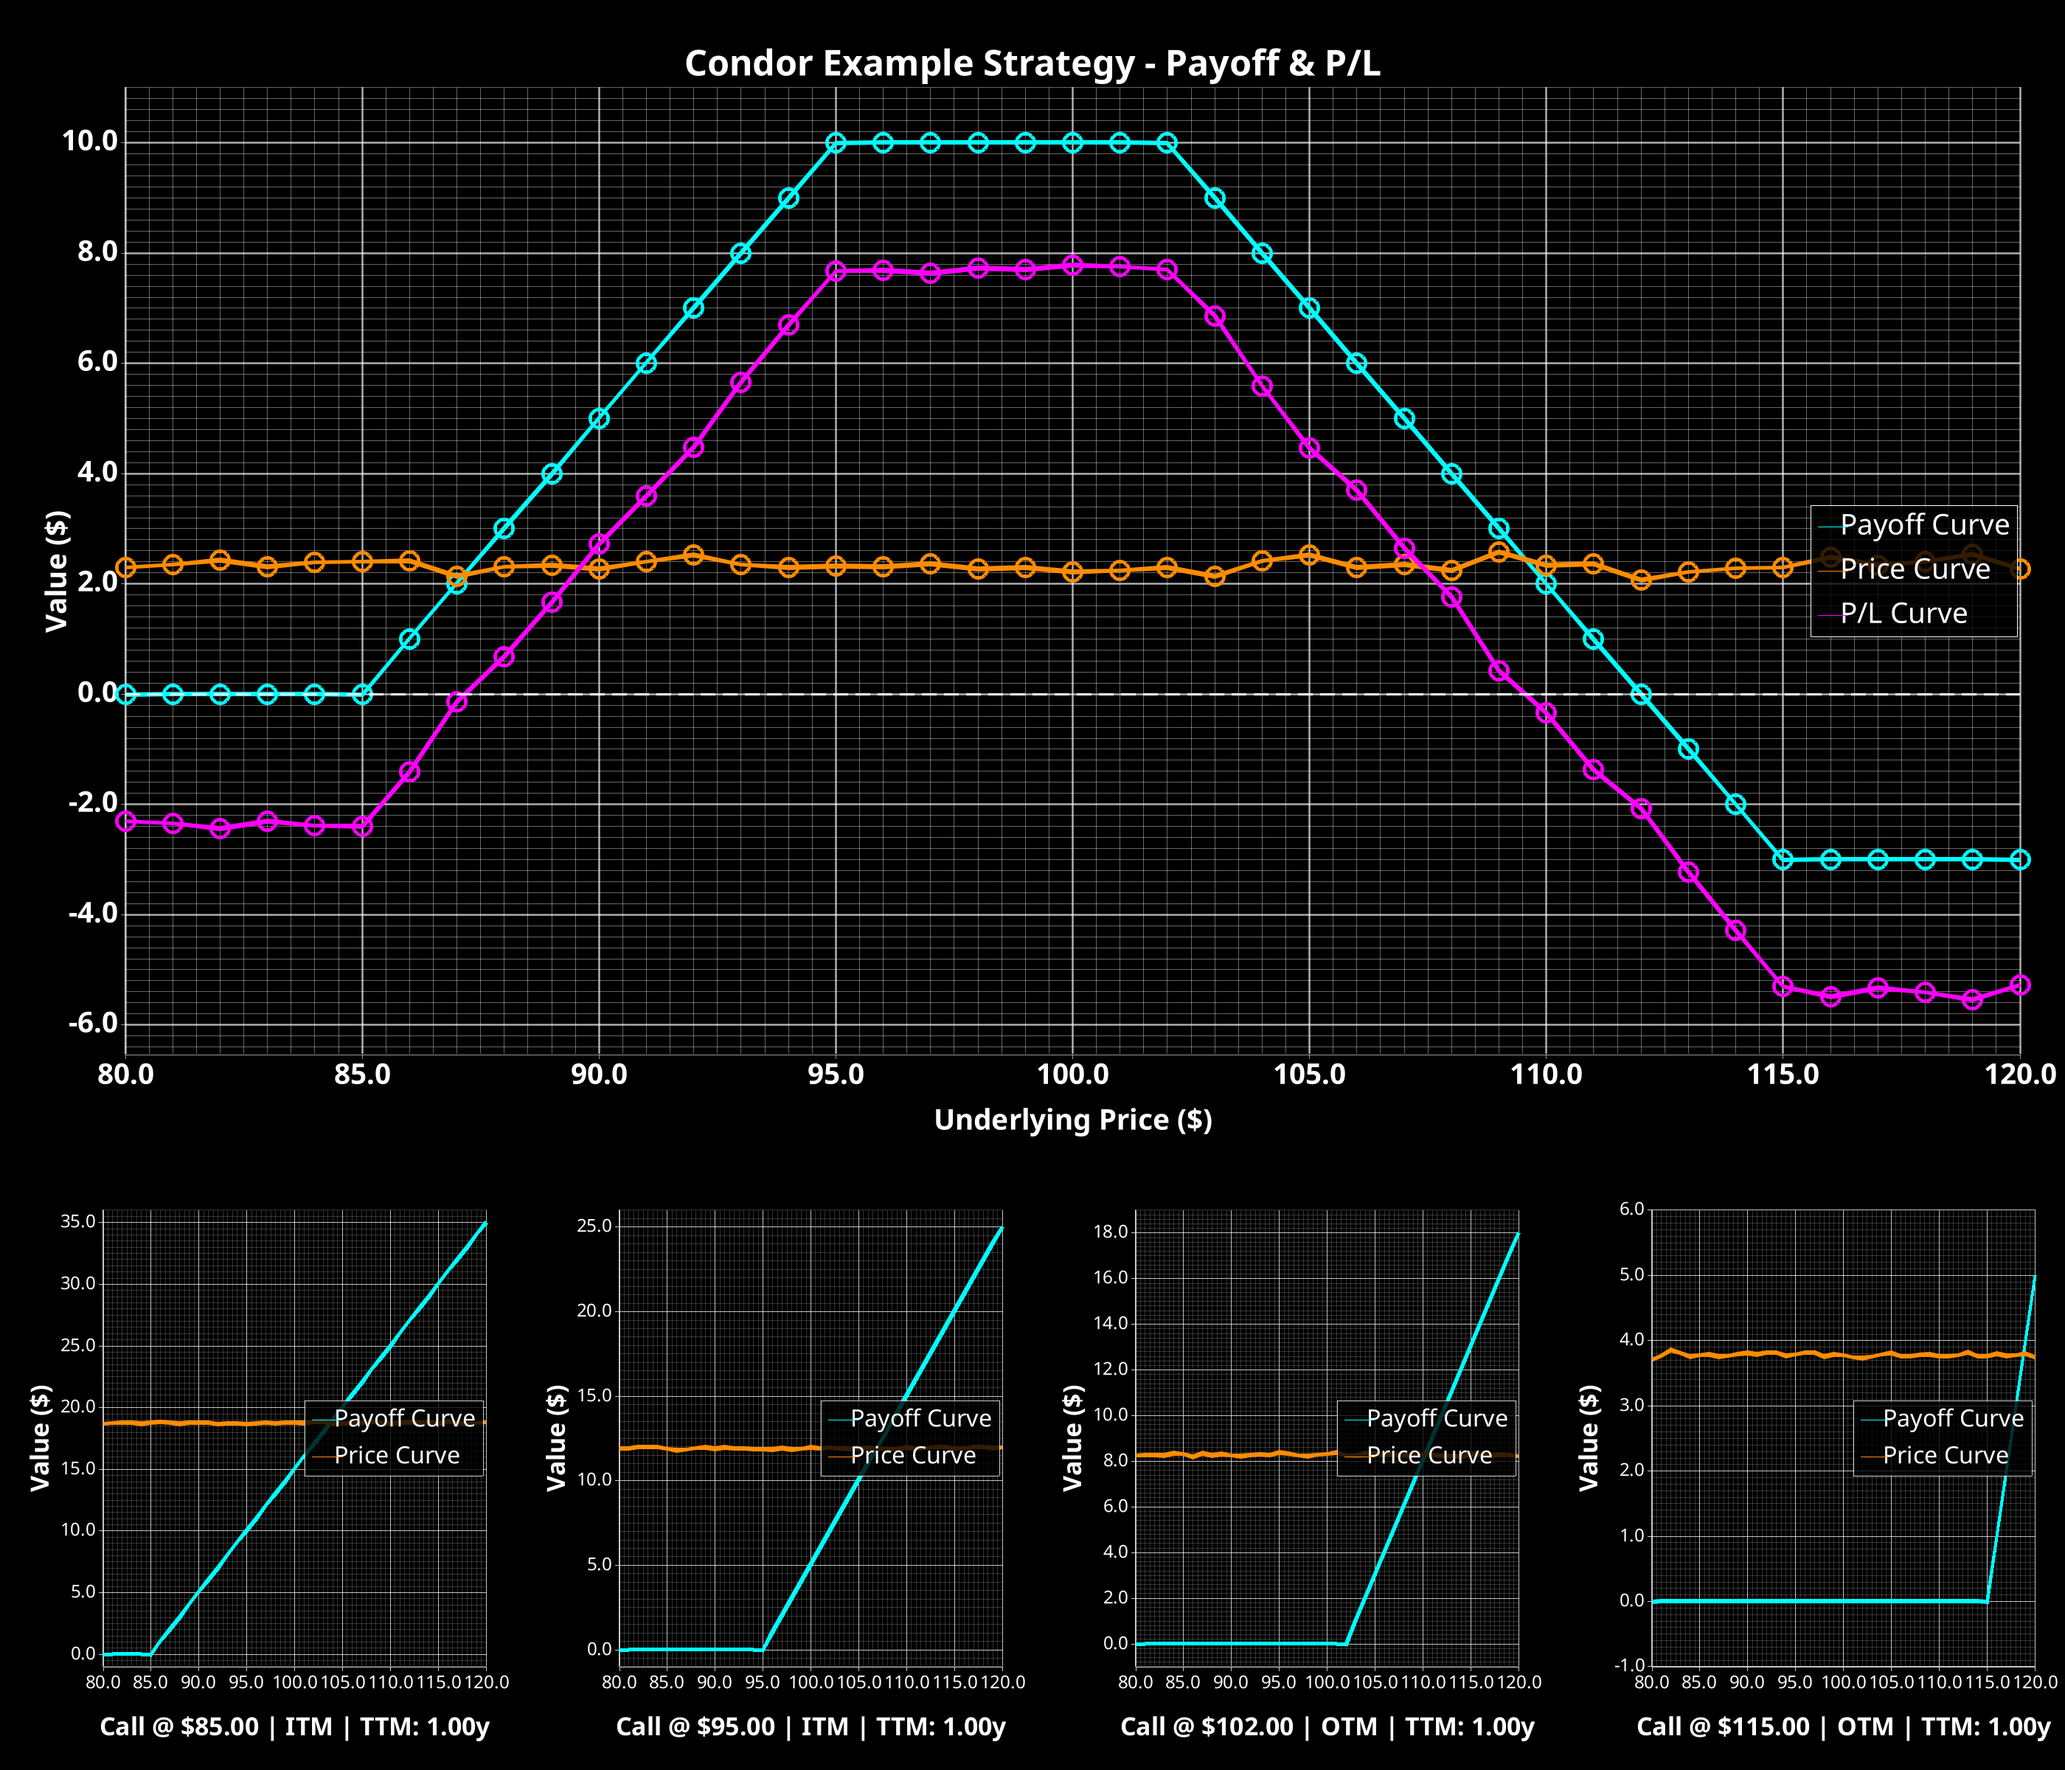
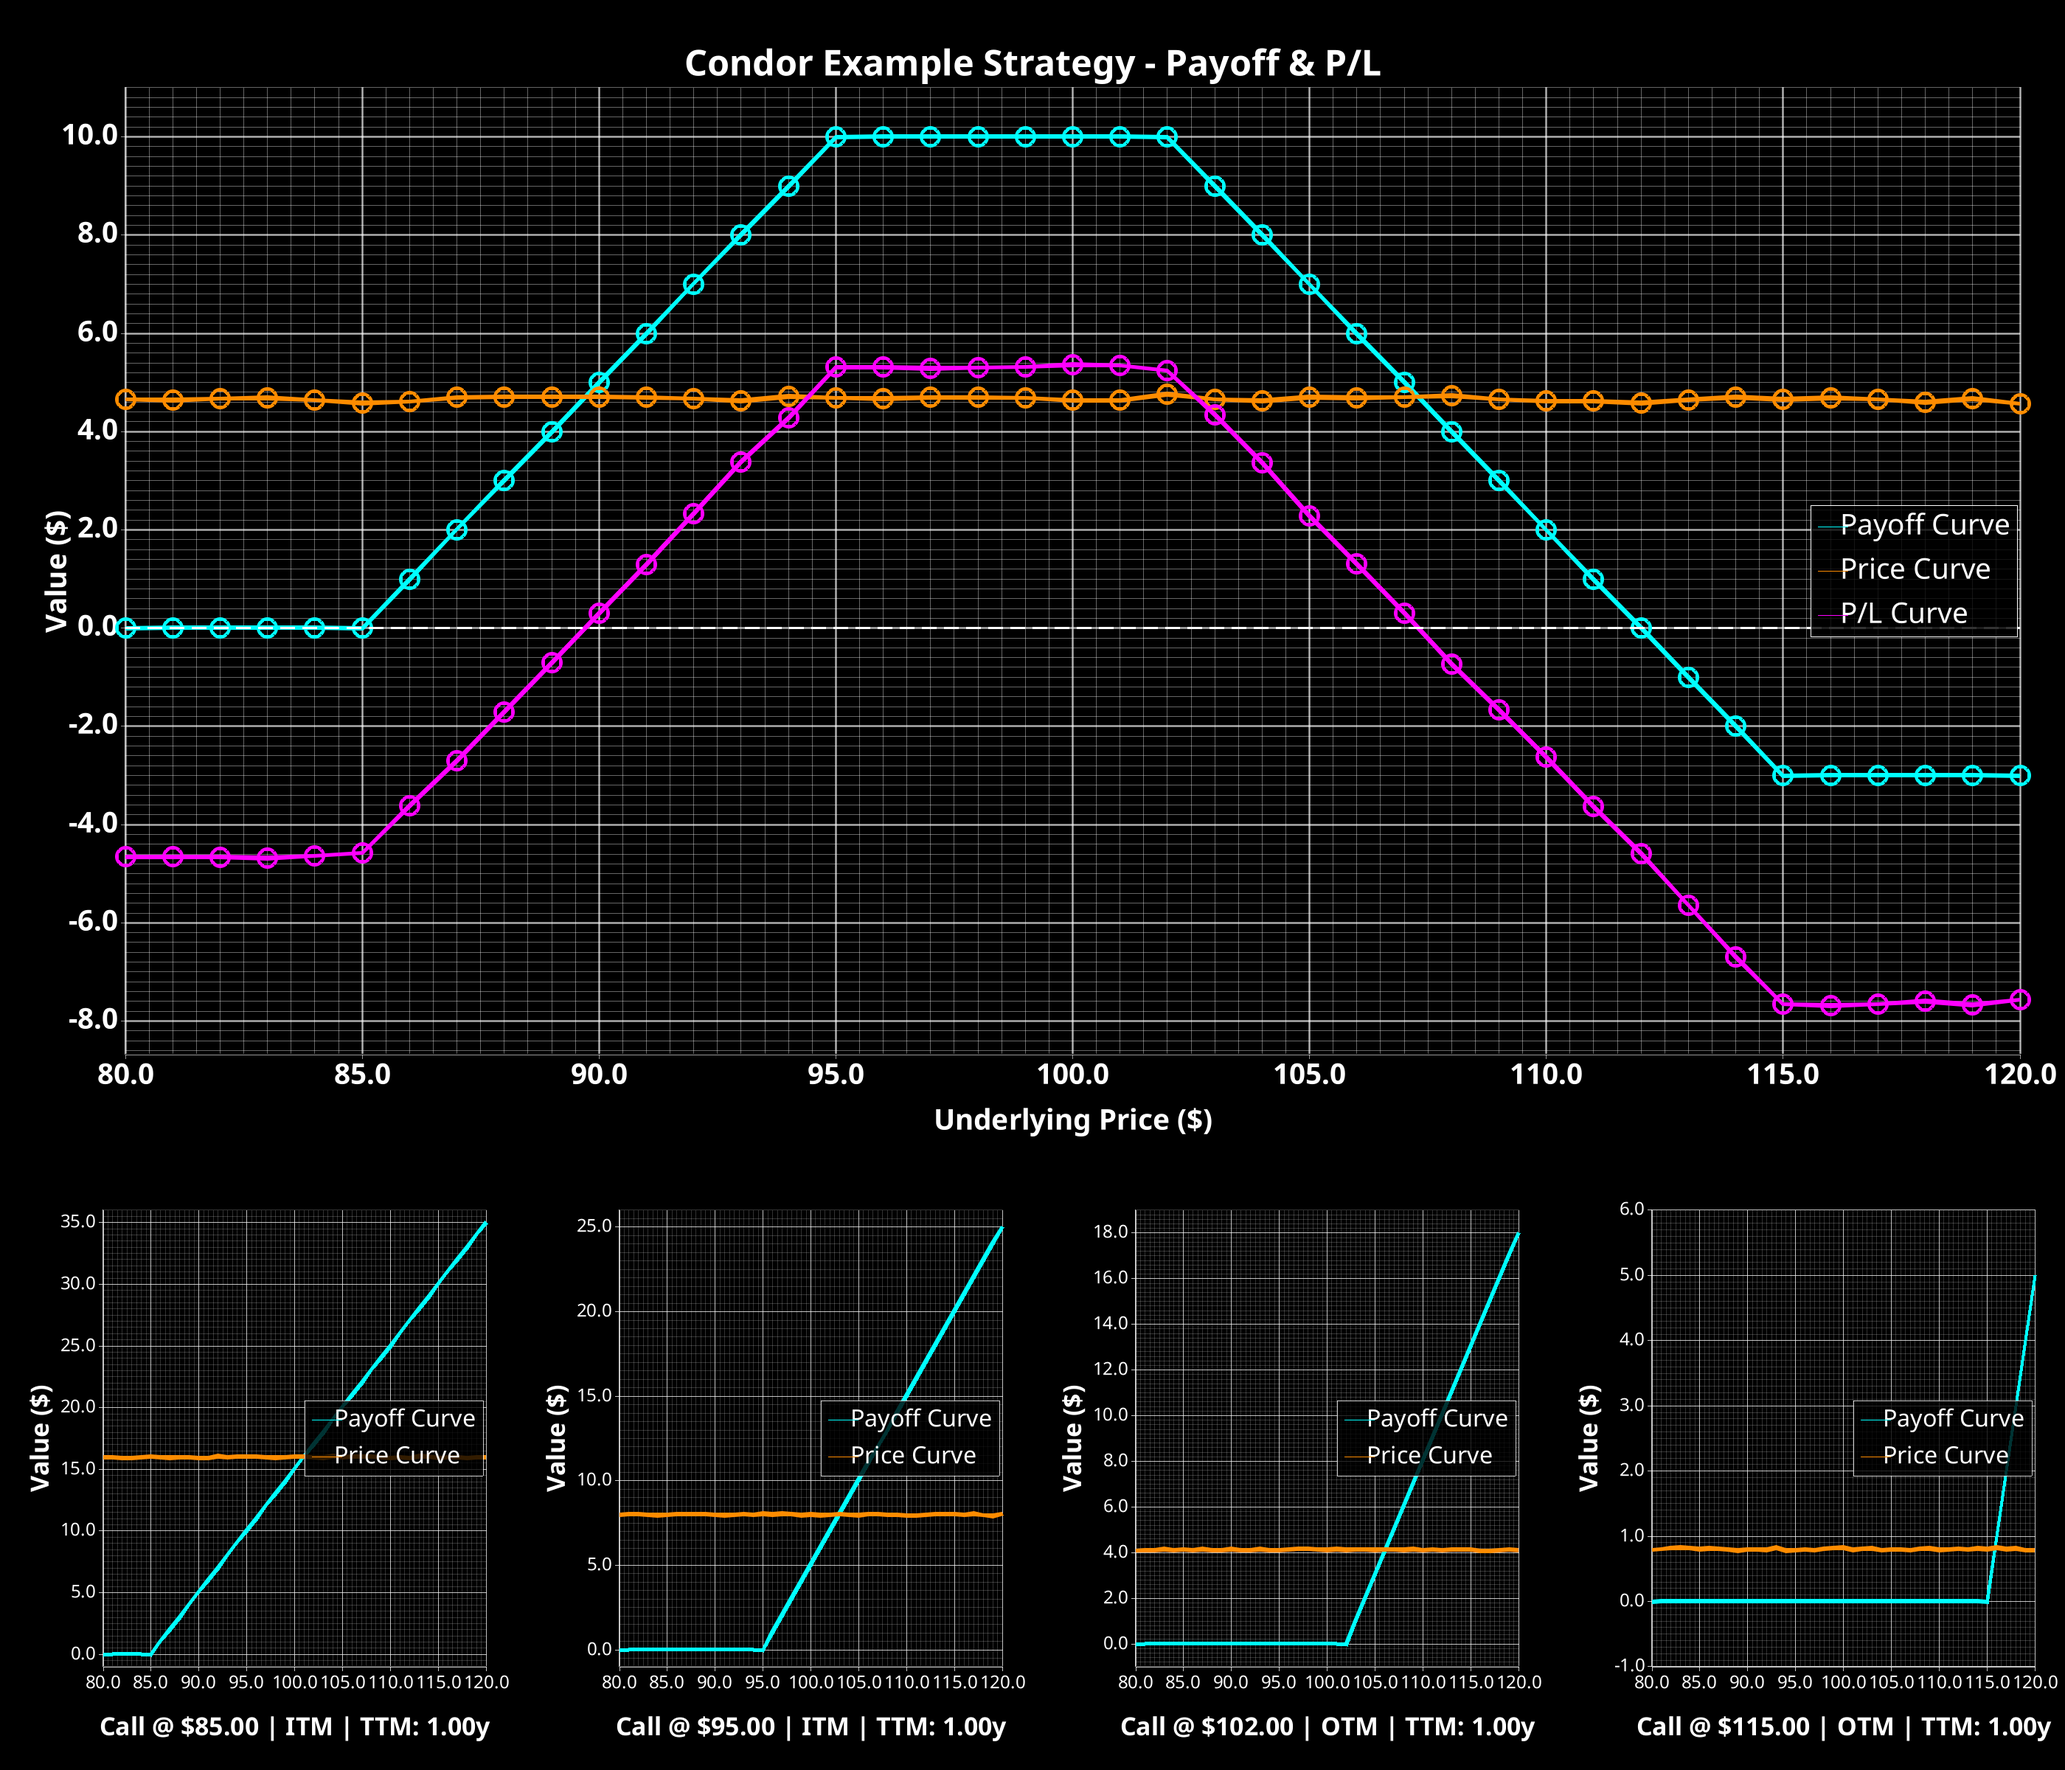
Update readme example

Changed region(s): [[0.0311, 0.0625, 0.9943, 0.5938]]

diff --git a/src/options/models/monte_carlo.rs b/src/options/models/monte_carlo.rs
@@ -182,13 +182,32 @@ impl MonteCarloModel {
             .into_par_iter() // Rayon parallel iterator
             .map(|_| {
                 let mut rng = rand::rng();
-                let simulated_price = option.instrument().simulate_geometric_brownian_motion(
-                    &mut rng,
-                    self.volatility,
-                    option.time_to_maturity(),
-                    self.risk_free_rate,
-                    self.steps,
-                );
+                let simulated_price = match self.method {
+                    AvgMethod::Geometric => option.instrument().simulate_geometric_average(
+                        &mut rng,
+                        SimMethod::Log,
+                        self.volatility,
+                        option.time_to_maturity(),
+                        self.risk_free_rate,
+                        self.steps,
+                    ),
+                    AvgMethod::Arithmetic => option.instrument().simulate_arithmetic_average(
+                        &mut rng,
+                        SimMethod::Log,
+                        self.volatility,
+                        option.time_to_maturity(),
+                        self.risk_free_rate,
+                        self.steps,
+                    ),
+                    AvgMethod::Brownian => option.instrument().simulate_geometric_brownian_motion(
+                        &mut rng,
+                        self.volatility,
+                        option.time_to_maturity(),
+                        self.risk_free_rate,
+                        self.steps,
+                    ),
+                };
+
                 option.payoff(Some(simulated_price))
             })
             .sum();
@@ -200,14 +219,14 @@ impl MonteCarloModel {
 impl OptionPricing for MonteCarloModel {
     fn price<T: Option>(&self, option: &T) -> f64 {
         match option.style() {
-            OptionStyle::European => self.price_european(option),
-            OptionStyle::Basket => self.price_basket(option),
-            OptionStyle::Rainbow(_) => self.price_rainbow(option),
-            OptionStyle::Barrier(_) => self.price_barrier(option),
-            OptionStyle::DoubleBarrier(_, _) => self.price_double_barrier(option),
+            OptionStyle::European => self.simulate_price_paths(option),
+            OptionStyle::Basket => self.simulate_price_paths(option),
+            OptionStyle::Rainbow(_) => self.simulate_price_paths(option),
+            OptionStyle::Barrier(_) => self.simulate_price_paths(option),
+            OptionStyle::DoubleBarrier(_, _) => self.simulate_price_paths(option),
             OptionStyle::Asian(_) => self.price_asian(option),
-            OptionStyle::Lookback(_) => self.price_lookback(option),
-            OptionStyle::Binary(_) => self.price_binary(option),
+            OptionStyle::Lookback(_) => self.simulate_price_paths(option),
+            OptionStyle::Binary(_) => self.simulate_price_paths(option),
             _ => panic!("Monte Carlo model does not support this option style"),
         }
     }
@@ -218,19 +237,6 @@ impl OptionPricing for MonteCarloModel {
 }
 
 impl MonteCarloModel {
-    /// Simulate price paths and compute the expected discounted payoff for European options.
-    ///
-    /// # Arguments
-    ///
-    /// * `option` - The European option to price.
-    ///
-    /// # Returns
-    ///
-    /// The expected discounted payoff of the option.
-    fn price_european<T: Option>(&self, option: &T) -> f64 {
-        self.simulate_price_paths(option)
-    }
-
     /// Simulate price paths and compute the expected discounted payoff for Asian options.
     ///
     /// # Arguments
@@ -279,84 +285,6 @@ impl MonteCarloModel {
 
         // Return average payoff
         sum / self.simulations as f64
-    }
-
-    /// Simulate price paths and compute the expected discounted payoff for basket options.
-    ///
-    /// # Arguments
-    ///
-    /// * `option` - The basket option to price.
-    ///
-    /// # Returns
-    ///
-    /// The expected discounted payoff of the option.
-    fn price_basket<T: Option>(&self, option: &T) -> f64 {
-        unimplemented!()
-    }
-
-    /// Simulate price paths and compute the expected discounted payoff for rainbow options.
-    ///
-    /// # Arguments
-    ///
-    /// * `option` - The rainbow option to price.
-    ///
-    /// # Returns
-    ///
-    /// The expected discounted payoff of the option.
-    fn price_rainbow<T: Option>(&self, option: &T) -> f64 {
-        self.simulate_price_paths(option)
-    }
-
-    /// Simulate price paths and compute the expected discounted payoff for barrier options.
-    ///
-    /// # Arguments
-    ///
-    /// * `option` - The barrier option to price.
-    ///
-    /// # Returns
-    ///
-    /// The expected discounted payoff of the option.
-    fn price_barrier<T: Option>(&self, option: &T) -> f64 {
-        unimplemented!()
-    }
-
-    /// Simulate price paths and compute the expected discounted payoff for double barrier options.
-    ///
-    /// # Arguments
-    ///
-    /// * `option` - The double barrier option to price.
-    ///
-    /// # Returns
-    ///
-    /// The expected discounted payoff of the option.
-    fn price_double_barrier<T: Option>(&self, option: &T) -> f64 {
-        unimplemented!()
-    }
-
-    /// Simulate price paths and compute the expected discounted payoff for lookback options.
-    ///
-    /// # Arguments
-    ///
-    /// * `option` - The lookback option to price.
-    ///
-    /// # Returns
-    ///
-    /// The expected discounted payoff of the option.
-    fn price_lookback<T: Option>(&self, option: &T) -> f64 {
-        unimplemented!()
-    }
-
-    /// Simulate price paths and compute the expected discounted payoff for binary options.
-    ///
-    /// # Arguments
-    ///
-    /// * `option` - The binary option to price.
-    ///
-    /// # Returns
-    ///
-    /// The expected discounted payoff of the option.
-    fn price_binary<T: Option>(&self, option: &T) -> f64 {
-        self.simulate_price_paths(option)
     }
 }
 

diff --git a/README.md b/README.md
@@ -131,7 +131,7 @@ Greeks { delta: 0.013645840354947947, gamma: -0.0008813766475726433, theta: 0.17
 
 Quantrs also supports plotting option prices and strategies using the `plotters` backend.
 
-E.g., Plot the P/L of a slightly skewed Condor spread using the Monte-Carlo model:
+E.g., Plot the P/L of a slightly skewed Condor spread consisting of fixed-strike Asian calls using the Monte-Carlo model with the geometric average price path:
 
 <details>
 <summary><i>Click to see example code</i></summary>
@@ -142,20 +142,20 @@ use quantrs::options::*;
 // Create a new instrument with a spot price of 100 and a dividend yield of 2%
 let instrument = Instrument::new().with_spot(100.0).with_cont_yield(0.02);
 
-// Create a vector of European call options with different strike prices
+// Create a vector of fixed-strike Asian calls options with different strike prices
 let options = vec![
-    EuropeanOption::new(instrument.clone(), 85.0, 1.0, Call),
-    EuropeanOption::new(instrument.clone(), 95.0, 1.0, Call),
-    EuropeanOption::new(instrument.clone(), 102.0, 1.0, Call),
-    EuropeanOption::new(instrument.clone(), 115.0, 1.0, Call),
+    AsianOption::fixed(instrument.clone(), 85.0, 1.0, Call),
+    AsianOption::fixed(instrument.clone(), 95.0, 1.0, Call),
+    AsianOption::fixed(instrument.clone(), 102.0, 1.0, Call),
+    AsianOption::fixed(instrument.clone(), 115.0, 1.0, Call),
 ];
 
 // Create a new Monte-Carlo model with:
 // - Risk-free interest rate (r) = 5%
 // - Volatility (σ) = 20%
 // - Number of simulations = 10,000
-// - Number of time steps = 365
-let model = MonteCarloModel::geometric(0.05, 0.2, 10_000, 365);
+// - Number of time steps = 252
+let model = MonteCarloModel::geometric(0.05, 0.2, 10_000, 252);
 
 // Plot a breakdown of the Condor spread with a spot price range of [80,120]
 model.plot_strategy_breakdown(
